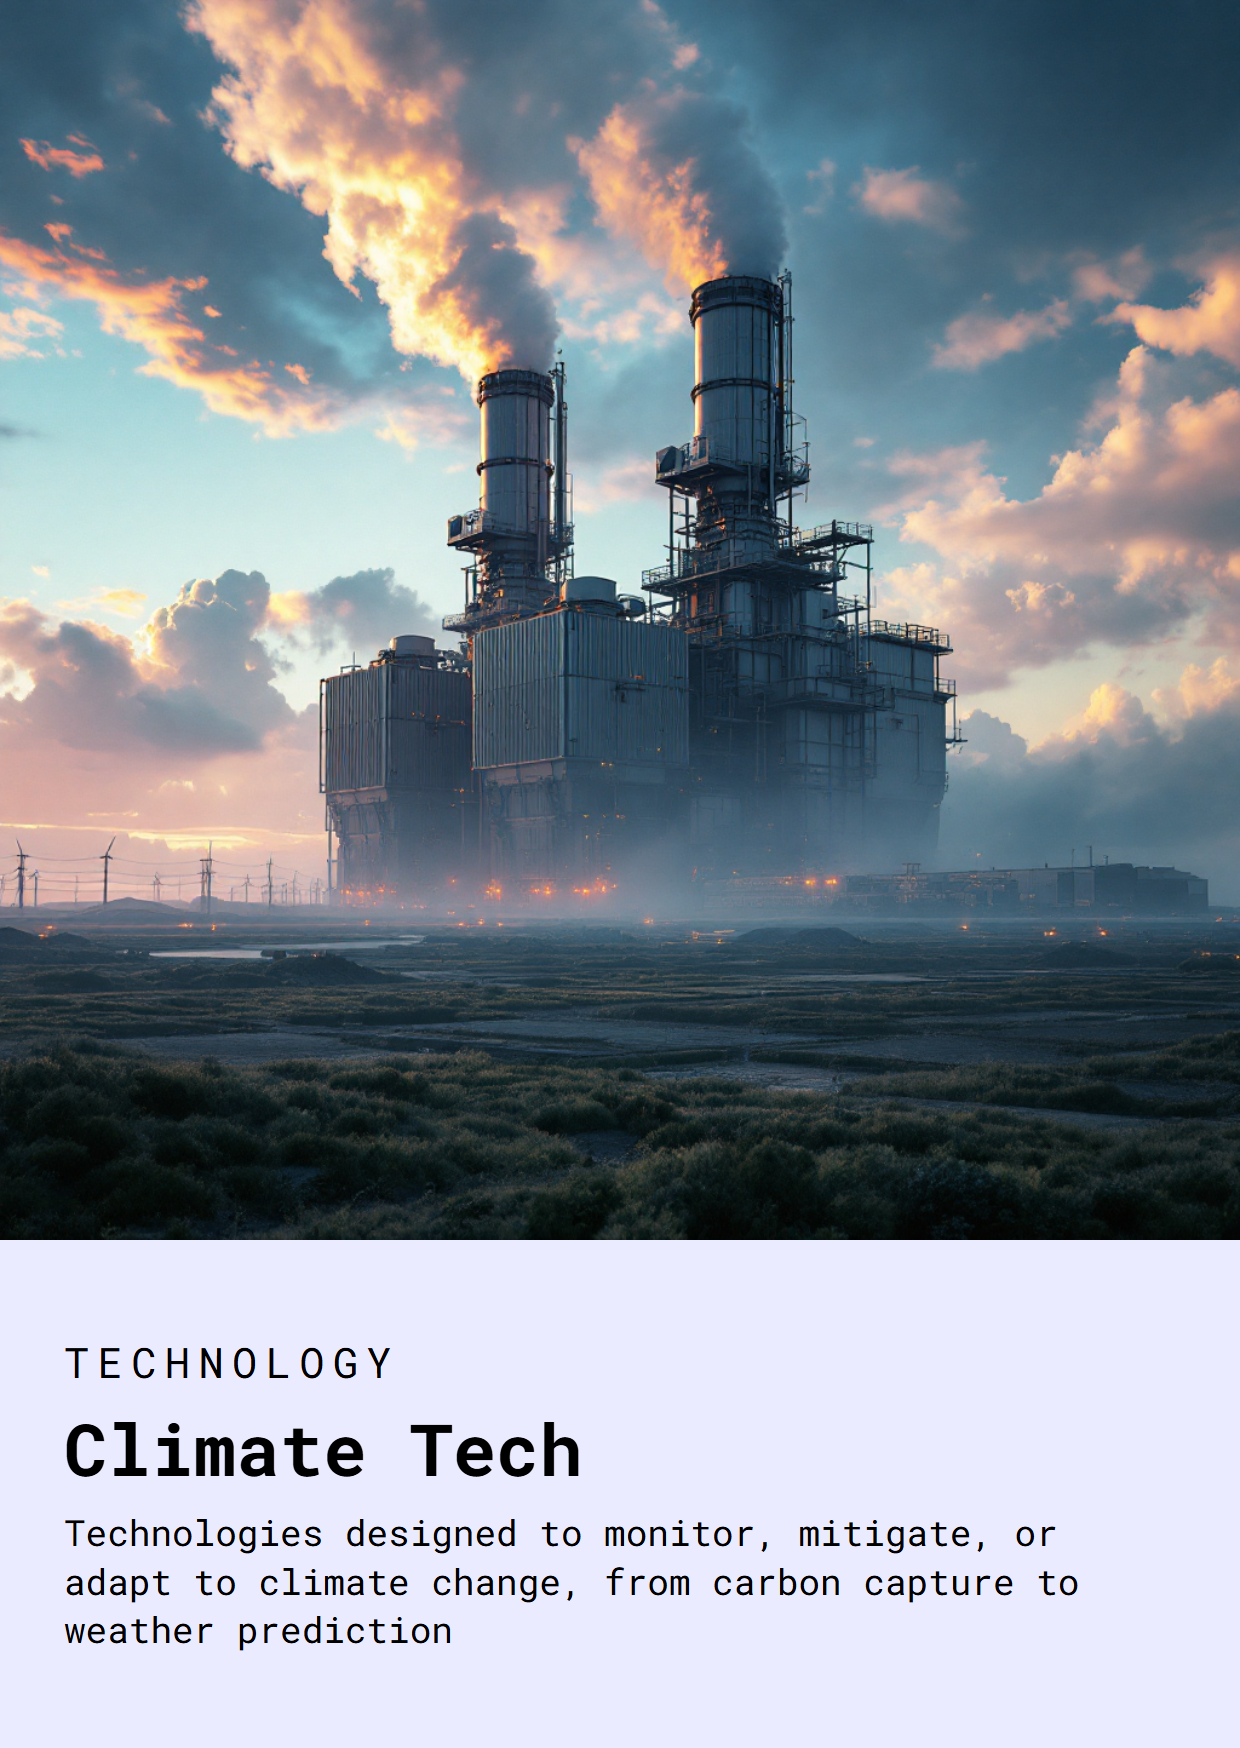
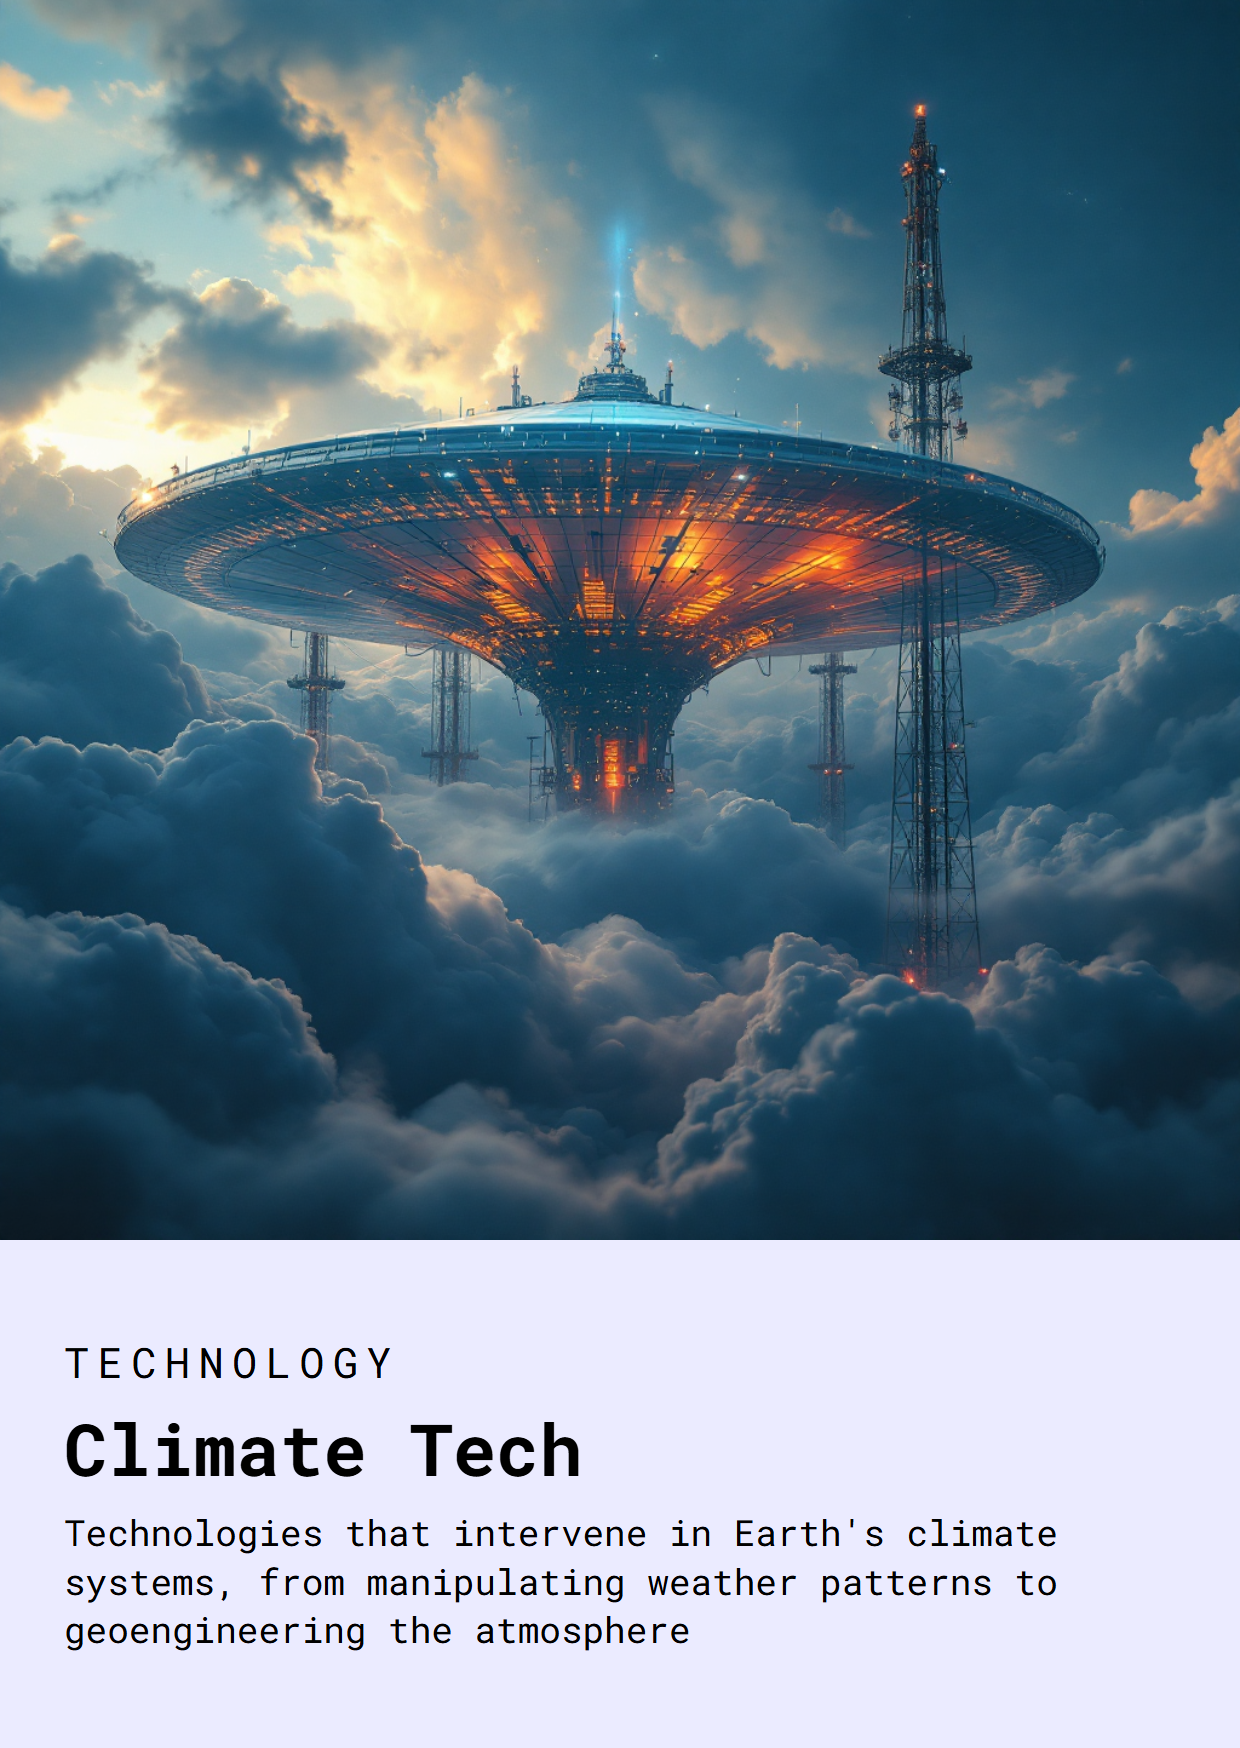
Update Climate Tech card with geoengineering focus
- New description emphasizing intervention in Earth's climate systems
- New artwork: geoengineering installations, orbital mirrors, weather manipulation

🤖 Generated with [Claude Code](https://claude.com/claude-code)

diff --git a/src/generate-images-emerging.js b/src/generate-images-emerging.js
@@ -55,7 +55,7 @@ const CARDS = [
   {
     id: 'tech-04',
     name: 'Climate Tech',
-    prompt: `${BASE_STYLE} Massive carbon capture facility with towering atmospheric processors against dramatic sky, direct air capture machines drawing CO2 from atmosphere, renewable energy arrays spanning the horizon, climate modeling supercomputer visualizing Earth's future, geoengineering technology addressing planetary crisis, climate greens and atmospheric blues.`
+    prompt: `${BASE_STYLE} Massive geoengineering installation in the sky, solar radiation management, stratospheric aerosol injection, giant reflective mirrors in orbit, weather manipulation towers, dramatic scale of planetary intervention, humans playing god with Earth's atmosphere, ominous yet awe-inspiring, blue and orange dramatic lighting, science fiction becoming reality.`
   },
   {
     id: 'tech-05',
